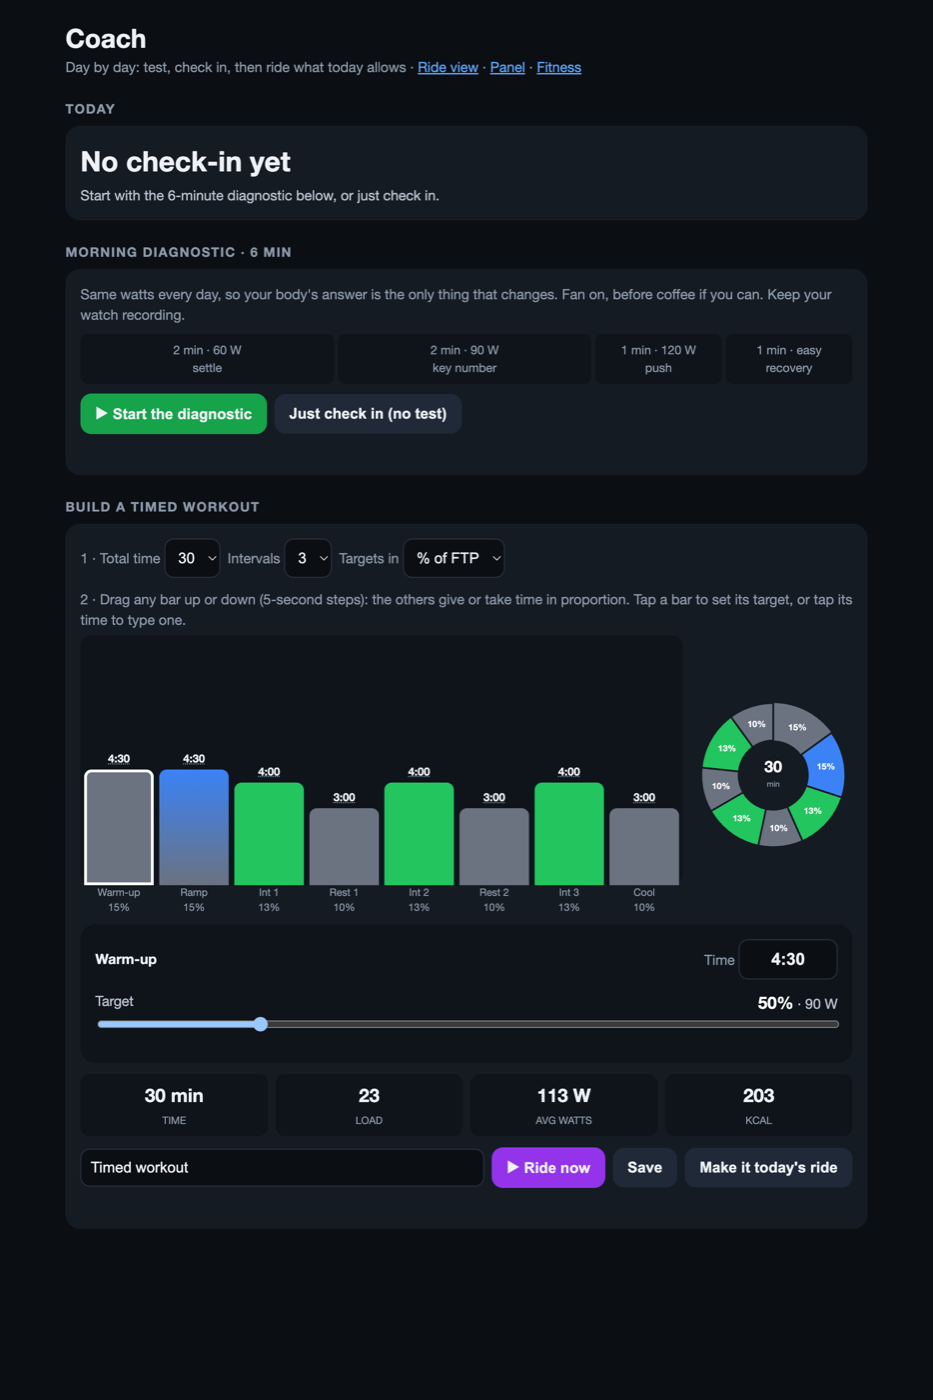
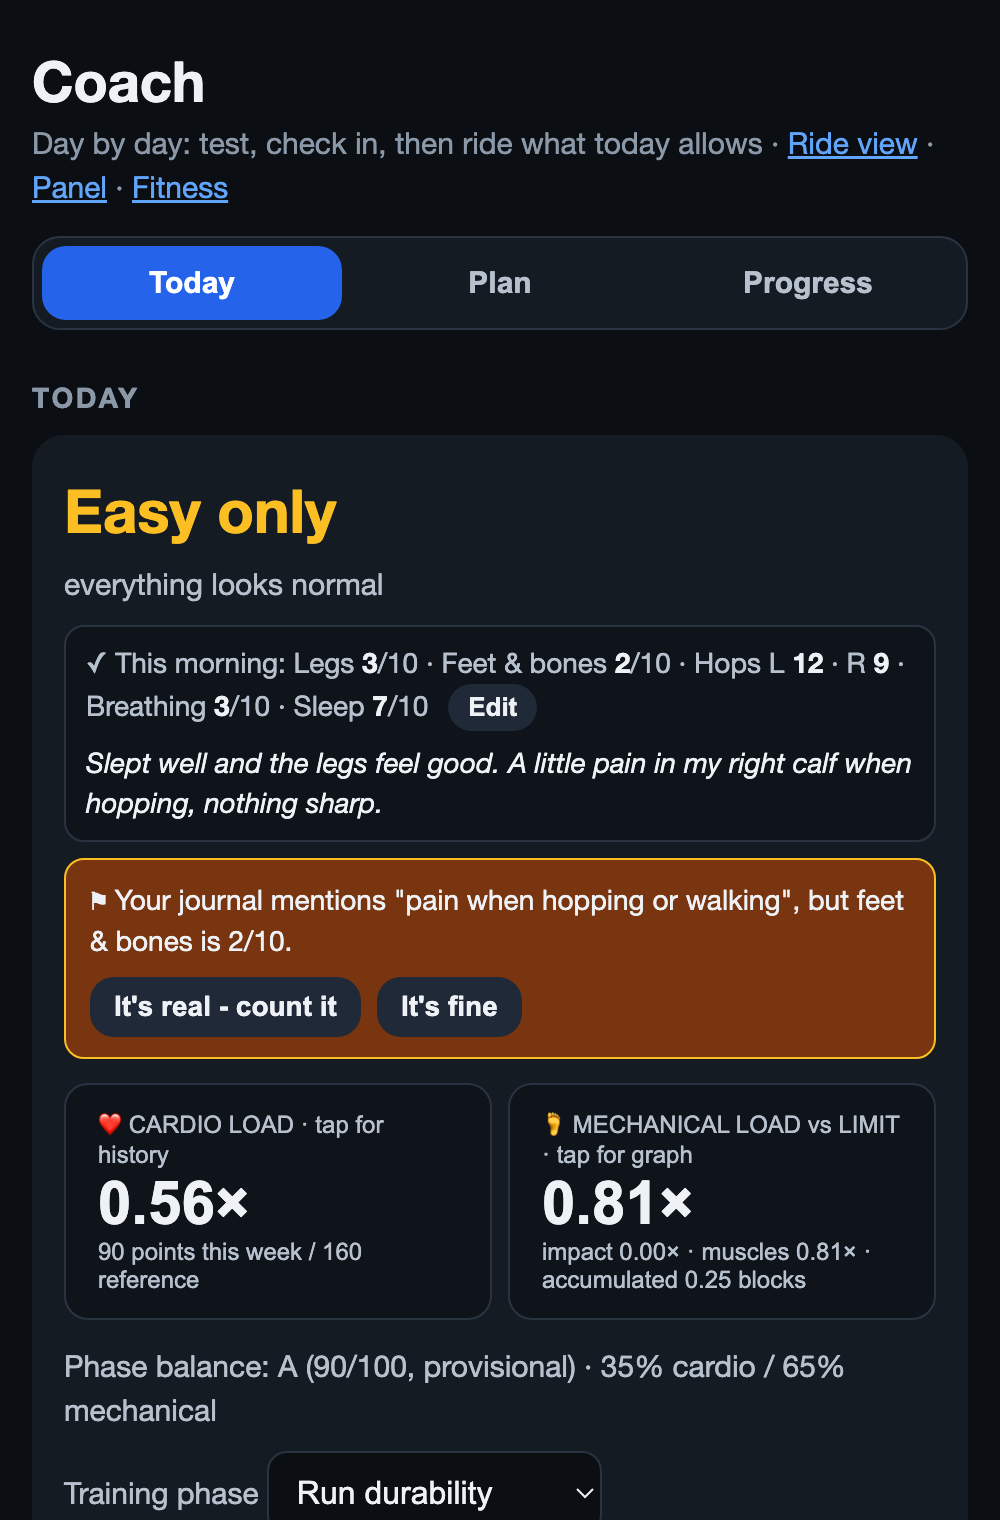
README: new Coach screenshot (Today tab, sample data)

diff --git a/README.md b/README.md
@@ -43,7 +43,7 @@ On top of that:
   <img src="docs/planner.jpg" width="760" alt="The route planner: offline map with labels and hillshade, place search, and famous-ride ideas">
 </p>
 <p align="center">
-  <img src="docs/coach.png" width="480" alt="The Coach page: morning diagnostic and the timed-workout builder with draggable bars and a pie chart">
+  <img src="docs/coach.png" width="480" alt="The Coach page, Today tab (sample data): the verdict, this morning's check-in with the hop test per leg and a journal entry, a journal flag asking to be confirmed, and the cardio and mechanical load cards">
   &nbsp;
   <img src="docs/adherence.png" width="340" alt="Workout adherence: planned parts as a pie, and a radar chart of how well each part was held">
 </p>
